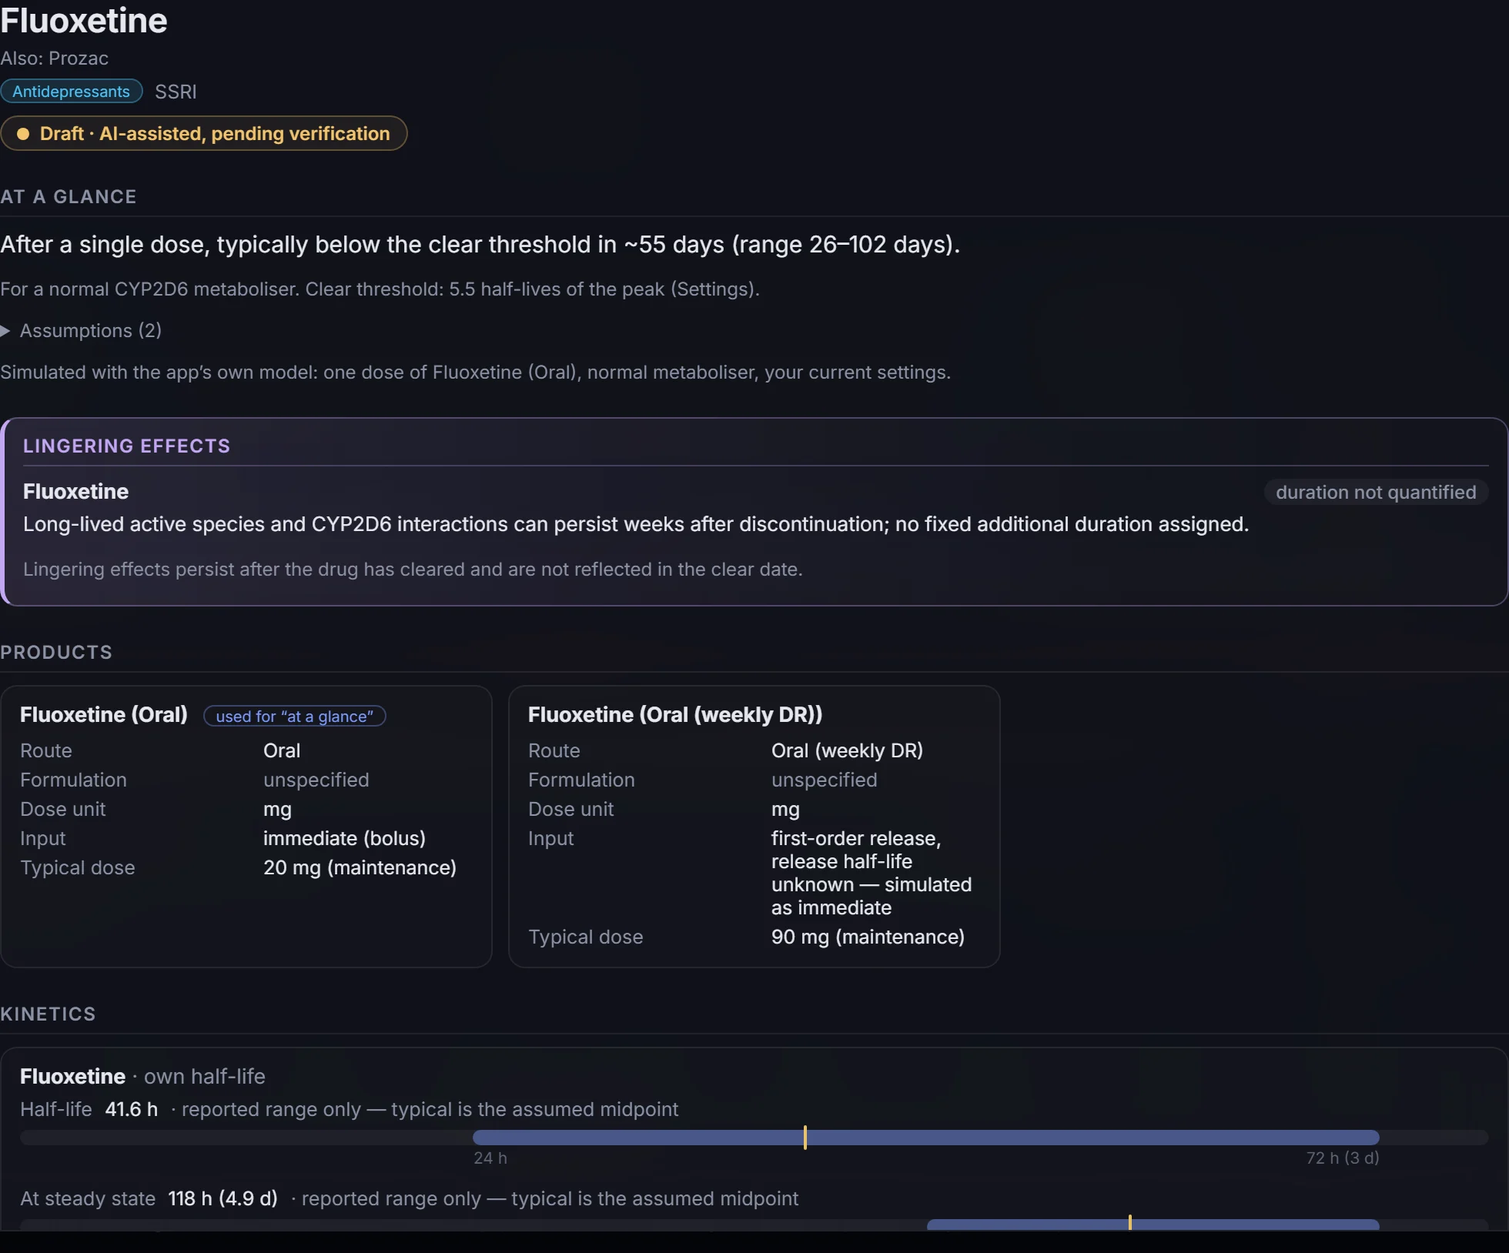
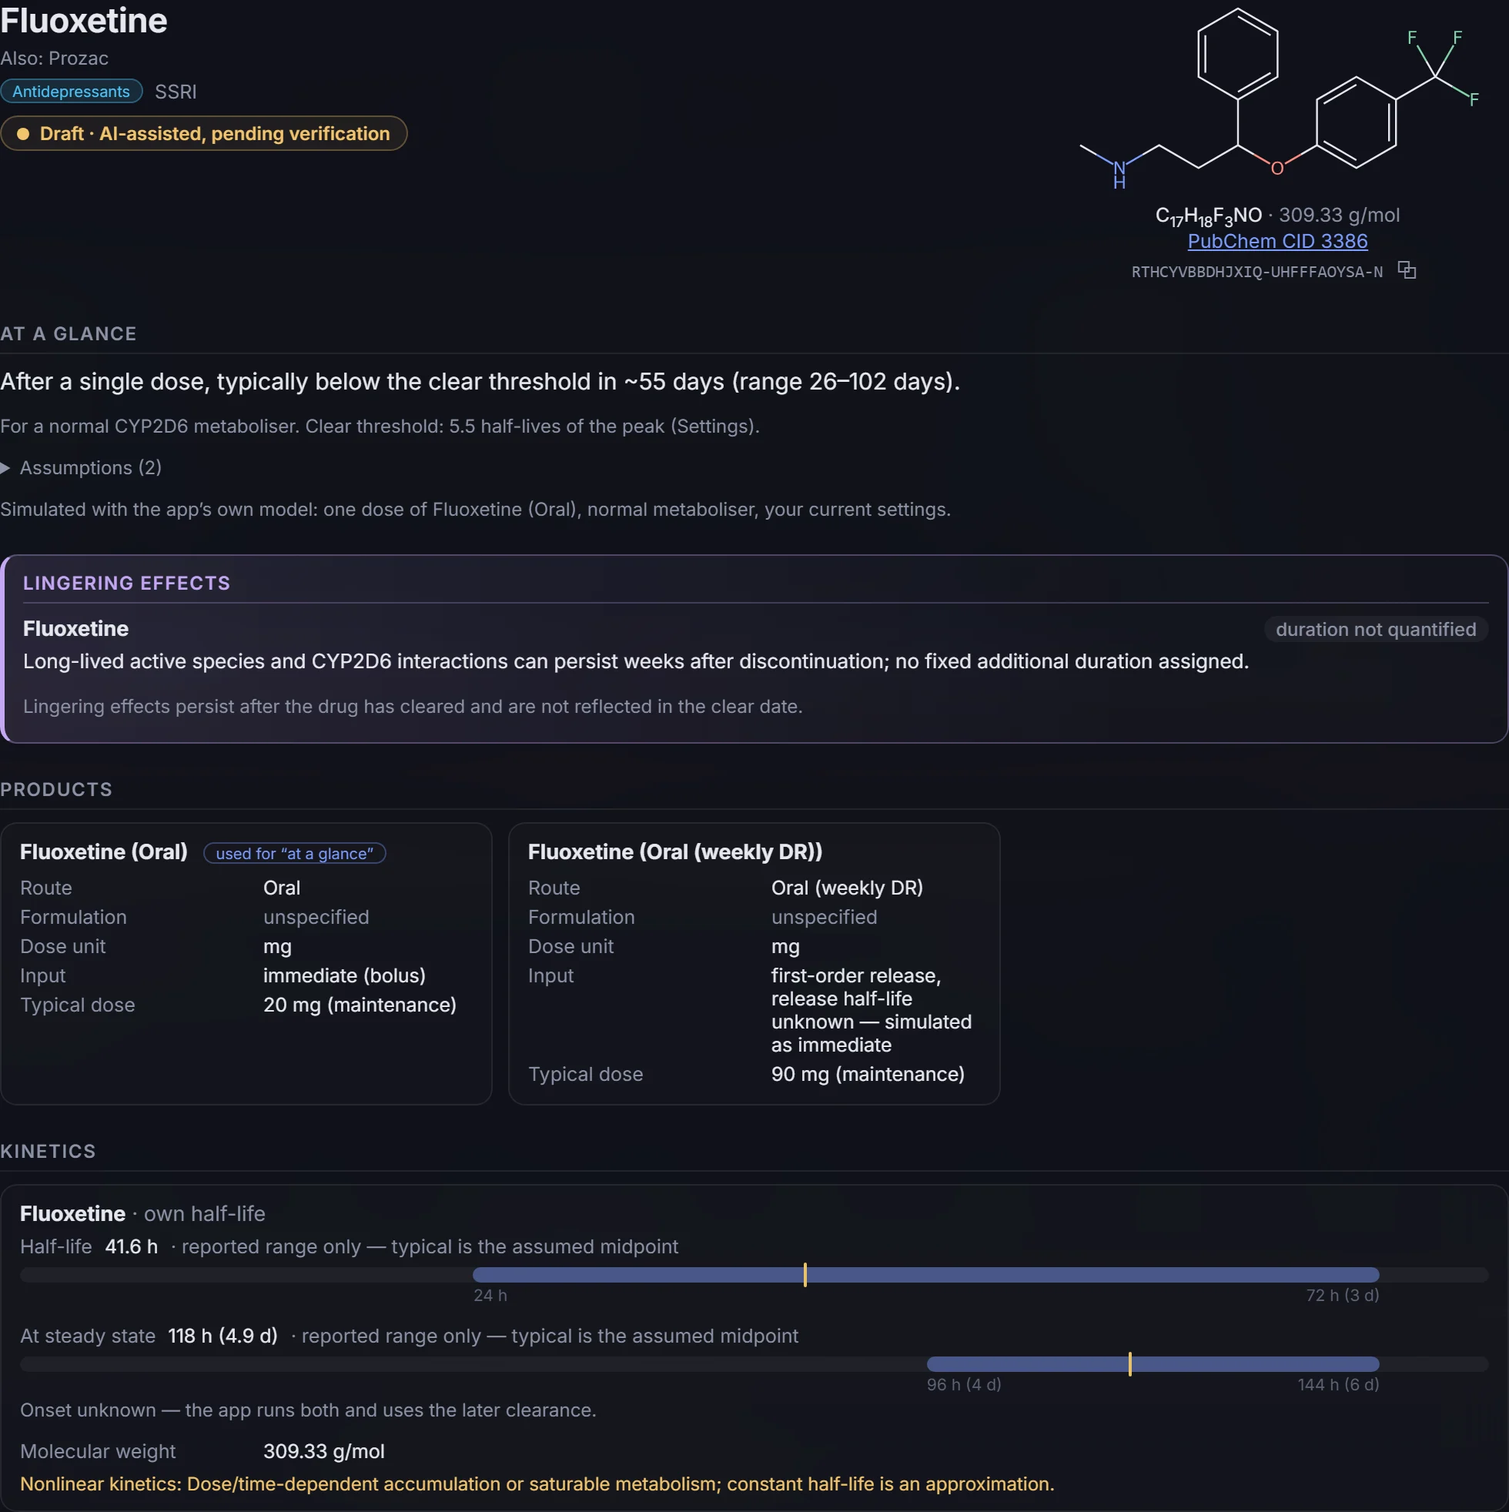
Structures step 6: help, README, screenshots, review list

diff --git a/help.html b/help.html
@@ -49,6 +49,7 @@
               <a href="#library">The drug library and its sources</a>
               <ol>
                 <li><a href="#library-view">Browsing the library</a></li>
+                <li><a href="#library-structures">Chemical structures</a></li>
               </ol>
             </li>
             <li><a href="#faq">FAQ</a></li>
@@ -655,6 +656,7 @@
             <li><a href="https://cpicpgx.org/">CPIC</a> and <a href="https://www.clinpgx.org/">ClinPGx</a> for pharmacogenomics.</li>
             <li>The <a href="https://www.guidetopharmacology.org/">IUPHAR/BPS Guide to Pharmacology</a> and the <a href="https://pdsp.unc.edu/databases/kidb.php">PDSP K<sub>i</sub> Database</a> for receptor targets.</li>
             <li>The primary pharmacokinetic literature via <a href="https://pubmed.ncbi.nlm.nih.gov/">PubMed</a>.</li>
+            <li><a href="https://pubchem.ncbi.nlm.nih.gov/">PubChem</a> (NCBI) for chemical identifiers, formulas, molecular weights and structures.</li>
           </ul>
           <h3>Review and verification</h3>
           <p>Each entry is reviewed section by section (half-life, metabolites, CYP2D6, QT, receptors and so on). A section can be confirmed, confirmed as unknown when the data genuinely isn't published, or marked not applicable. An entry is verified only when every section has been reviewed. Where the data is genuinely unpublished, as it is for many metabolites, the tool says so instead of guessing: the entry shows <span class="badge badge-warn">verified — incomplete data</span> and its clear dates are lower bounds.</p>
@@ -683,18 +685,28 @@
               <li>Live counts from the library.</li>
             </ol>
           </figure>
-          <p>A drug's entry shows, in order: its status; <strong>at a glance</strong>, the clear time after a single dose; <strong>lingering effects</strong>, when there are any; its products; the kinetics of the drug and each metabolite; the metabolite tree; safety (CYP2D6, QT, lingering effects, nonlinear kinetics); receptors; and the sources. Unknown values are shown as <em>unknown</em> or <em>unassessed</em>, never left blank.</p>
+          <p>A drug's entry shows, in order: its name, status and chemical structure; <strong>at a glance</strong>, the clear time after a single dose; <strong>lingering effects</strong>, when there are any; its products; the kinetics of the drug and each metabolite; the metabolite tree; safety (CYP2D6, QT, lingering effects, nonlinear kinetics); receptors; and the sources. Unknown values are shown as <em>unknown</em> or <em>unassessed</em>, never left blank.</p>
           <figure class="shot" data-img="library-entry.webp">
-            <div class="shot-frame"><img src="help/img/library-entry.webp" alt="The top of the fluoxetine entry: its name and aliases, the Draft status, an at-a-glance sentence giving the typical clear time after a single dose with its range, a violet Lingering effects panel with fluoxetine's note and the caveat that lingering effects are not part of the clear date, product cards for the oral and weekly delayed-release products, and the fluoxetine half-life shown as a range bar." /></div>
+            <div class="shot-frame"><img src="help/img/library-entry.webp" alt="The top of the fluoxetine entry: its name and aliases, the Draft status, its chemical structure with formula, molecular weight, PubChem link and InChIKey, an at-a-glance sentence giving the typical clear time after a single dose with its range, a violet Lingering effects panel with fluoxetine's note and the caveat that lingering effects are not part of the clear date, product cards for the oral and weekly delayed-release products, and the fluoxetine half-life shown as a range bar." /></div>
             <figcaption>The top of a drug's entry.</figcaption>
             <ol class="callout-list">
               <li>Status: Verified (with its date), Verified — incomplete data, Draft, or No data yet.</li>
+              <li>Chemical structure, with the formula, molecular weight, a link to the PubChem record and the InChIKey (the copy button copies it). See <a href="#library-structures">Chemical structures</a>.</li>
               <li>At a glance: the same simulation as the chart, for one dose of the main product in a normal CYP2D6 metaboliser, using your current clear threshold. Incomplete drugs say “not before” and name the compound without kinetics.</li>
               <li>Lingering effects: effects that outlast the drug itself, such as the weeks needed to make new enzyme after an irreversible MAOI, protracted benzodiazepine withdrawal, or platelet recovery after clopidogrel. Each compound with a note is listed (a metabolite says which compound it is formed from), with its duration in days or “duration not quantified”. The panel appears only when the drug or one of its metabolites has such a note. These effects persist after the drug has cleared and are <em>not</em> part of the clear date; the chart's <a href="#lingering">lingering-effects band</a> shows them only where a duration is recorded.</li>
               <li>Each product: route, formulation, input model and typical dose. “Not set” or “not applied” means the library has no value.</li>
               <li>Half-life range: the band runs from the fastest to the slowest value, the gold tick is the typical value, and the label says how the range was derived. A striped band is an assumed spread around a single published value.</li>
             </ol>
           </figure>
+          <h3 id="library-structures">Chemical structures</h3>
+          <p>Each drug and metabolite is matched to its <a href="https://pubchem.ncbi.nlm.nih.gov/">PubChem</a> record, and its 2D structure is drawn from PubChem's SMILES with <a href="https://www.rdkit.org/">RDKit</a> when the site is built. The app itself never contacts PubChem. The match has a confidence, and a structure is drawn only when the match is good:</p>
+          <ul>
+            <li><strong>Confirmed</strong>: the name is an exact PubChem synonym of a single record, the molecular weight agrees, and any stereochemistry the name states matches.</li>
+            <li><strong>Probable match — pending review</strong>: drawn, but not yet checked by a reviewer. This covers drugs that have a stereoisomer sibling in the library (citalopram and escitalopram, ketamine and esketamine), where the record could be the wrong isomer, and loosely named metabolites such as “hydroxy-” or “desmethyl-” forms.</li>
+            <li><strong>Structure pending confirmation</strong>: not drawn. The name matched more than one record, only an abbreviation matched (abbreviations collide: MDEA also names an industrial solvent), or the stereochemistry or molecular weight didn't agree. The candidate records are listed with links.</li>
+            <li><strong>No single structure</strong>: mixtures such as kavalactones, peptides such as semaglutide, pooled conjugates, and lithium.</li>
+          </ul>
+          <p>Structures are for identification only. They aren't used in any calculation, but where a molecular weight was missing it was filled from PubChem, which lets the chart show more metabolite amounts in the metabolite's own mass.</p>
           <figure class="shot" data-img="library-tree.webp">
             <div class="shot-frame"><img src="help/img/library-tree.webp" alt="The metabolite tree for codeine: codeine on the left, outlined in gold, linked to its metabolites, each box showing whether it is active and its half-life, with the fraction formed on each link." /></div>
             <figcaption>The metabolite tree.</figcaption>
@@ -775,7 +787,7 @@
             <li><strong>For developers</strong>: see the <a href="https://github.com/IboTool/cleardate#readme">repository README</a>.</li>
           </ul>
           <h3>Acknowledgements</h3>
-          <p>The data sources listed under <a href="#library">The drug library and its sources</a>, and these open-source libraries:</p>
+          <p>The data sources listed under <a href="#library">The drug library and its sources</a>, including <a href="https://pubchem.ncbi.nlm.nih.gov/">PubChem</a> (National Center for Biotechnology Information, U.S. National Library of Medicine) for chemical identifiers and SMILES, and these open-source libraries:</p>
           <div class="table-wrap">
             <table class="data-table">
               <thead><tr><th scope="col">Library</th><th scope="col">Used for</th><th scope="col">Licence</th></tr></thead>
@@ -783,6 +795,7 @@
                 <tr><td><a href="https://echarts.apache.org/">Apache ECharts</a> (with ZRender)</td><td>The chart</td><td>Apache-2.0 (ZRender: BSD-3-Clause)</td></tr>
                 <tr><td><a href="https://www.fusejs.io/">Fuse.js</a></td><td>Fuzzy drug search</td><td>Apache-2.0</td></tr>
                 <tr><td><a href="https://github.com/parallax/jsPDF">jsPDF</a></td><td>PDF export</td><td>MIT</td></tr>
+                <tr><td><a href="https://www.rdkit.org/">RDKit</a></td><td>Drawing the chemical structures (when the site is built; not shipped to your browser)</td><td>BSD-3-Clause</td></tr>
                 <tr><td><a href="https://rsms.me/inter/">Inter</a>, via <a href="https://fontsource.org/">Fontsource</a></td><td>Typeface</td><td>SIL Open Font License 1.1</td></tr>
               </tbody>
             </table>

diff --git a/tools/screenshots.ts b/tools/screenshots.ts
@@ -380,13 +380,19 @@ async function main() {
     const detail = lib.locator('.lib-detail');
     const libSection = (title: string) => detail.locator('.lib-sec').filter({ has: page.locator('h3', { hasText: new RegExp(`^${title}$`) }) });
     const kinetics = libSection('Kinetics');
+    await page.setViewportSize({ width: 1440, height: 1300 });
+    await settle(page, 200);
+    await detail.locator('.lib-struct img').evaluate((img: HTMLImageElement) => img.decode());
     await shot(page, 'library-entry', union(await box(detail.locator('.lib-entry-head')), await box(kinetics.locator('.lib-card').first())), [
       corner(await box(detail.locator('.lib-entry-head .lib-status'))),
+      corner(await box(detail.locator('.lib-struct'))),
       await textEnd(detail.locator('.lib-glance')),
       corner(await box(detail.locator('.lib-linger'))),
       corner(await box(detail.locator('.lib-cards .lib-card').first())),
       corner(await box(kinetics.locator('.lib-bar').first())),
     ]);
+    await page.setViewportSize({ width: 1440, height: 900 });
+    await settle(page, 200);
 
     await lib.locator('.lib-search').fill('codeine');
     await settle(page, 250);

diff --git a/tools/structures/match.ts b/tools/structures/match.ts
@@ -48,11 +48,11 @@ const MAX_CANDIDATES = 8;
 
 /** Always not-applicable, with the reason shown in the Library. */
 export const NOT_APPLICABLE: Record<string, string> = {
-  kavalactones: 'Mixture of six kavalactones — no single structure.',
-  semaglutide: 'Peptide (GLP-1 analogue) — not drawn as a small-molecule structure.',
-  tirzepatide: 'Peptide (GIP/GLP-1 dual agonist) — not drawn as a small-molecule structure.',
-  apap_glucuronide_sulfate: 'Pooled glucuronide and sulfate conjugates — not one compound.',
-  lithium: 'Lithium ion (Li⁺) — a single atom; no structure to draw.',
+  kavalactones: 'Mixture of six kavalactones.',
+  semaglutide: 'Peptide (GLP-1 analogue).',
+  tirzepatide: 'Peptide (GIP/GLP-1 dual agonist).',
+  apap_glucuronide_sulfate: 'Pooled glucuronide and sulfate conjugates, not one compound.',
+  lithium: 'Lithium ion (Li⁺), a single atom.',
 };
 /** Notes that describe the compound itself as a mixture or extract (not just the study material). */
 const MIXTURE_NOTE_RE = /\b(?:is|are) an? (?!stereoisomer)(?:\w+ )?(?:mixture|extract)\b|not one molecular species/i;

diff --git a/tools/structures/lookup.ts b/tools/structures/lookup.ts
@@ -113,7 +113,7 @@ function report(rows: Row[]): string {
     '',
     '## Molecular weights filled from PubChem',
     '',
-    ...(filled.length ? filled.map((c) => `- \`${c.id}\`: ${c.molecularWeight} g/mol (${c.sourceNotes.molecularWeight.split('.')[0]})`) : ['None.']),
+    ...(filled.length ? filled.map((c) => `- \`${c.id}\`: ${c.molecularWeight} g/mol (${(c.sourceNotes.molecularWeight ?? '').split('.')[0]})`) : ['None.']),
     '',
     '## Molecular weight conflicts (not overwritten)',
     '',

diff --git a/README.md b/README.md
@@ -57,13 +57,16 @@ Double-click **`stop-cleardate.bat`** to stop the app and the editor. It kills w
 | Command | What it does |
 |---|---|
 | `npm run dev` | App at http://localhost:5173. In dev, Settings → *Load demo data* adds the fictional compounds in `tools/demo-drugs.json`. |
-| `npm run build` | Runs the validator (`prebuild`), type-checks and writes the static site to `dist/`. The build fails if `drugs.json` has errors. Demo data is never bundled. |
+| `npm run build` | Runs the validator and `structures:render` (`prebuild`), type-checks and writes the static site to `dist/`. The build fails if `drugs.json` has errors. Demo data is never bundled. |
 | `npm run preview` | Serves `dist/` locally. |
 | `npm test` | Unit tests (PK simulation, model and clear status, migration, search, serialisation, sessions). |
-| `npm run init-data` | Creates a schema 2.2 `public/drugs.json` from `tools/candidates.json` with every value unknown (`null` / `unassessed`). Uses the same product rules as the migrations, so it yields the same product set. Refuses to overwrite an existing file; `--force` overwrites, `--out <path>` writes elsewhere. |
+| `npm run init-data` | Creates a schema 2.3 `public/drugs.json` from `tools/candidates.json` with every value unknown (`null` / `unassessed`). Uses the same product rules as the migrations, so it yields the same product set. Refuses to overwrite an existing file; `--force` overwrites, `--out <path>` writes elsewhere. |
 | `npm run migrate-v2` | One-off migration of a v1 `drugs.json` to schema v2 (see below). Does nothing if the file is already v2. |
 | `npm run migrate-v2.1` | One-off migration of a v2 `drugs.json` to schema 2.1 (see below). `--dry-run` reports without writing. Does nothing if the file is already 2.1. |
 | `npm run migrate-v2.2` | One-off migration of a 2.1 `drugs.json` to schema 2.2 (see below). `--dry-run` reports without writing. Idempotent. |
+| `npm run migrate-v2.3` | One-off migration of a 2.2 `drugs.json` to schema 2.3: adds `"identity": null` (chemical identity, filled by `structures:lookup`) to every compound. `--dry-run` reports without writing. Idempotent. |
+| `npm run structures:lookup` | **Dev only, needs the internet.** Looks up every compound's PubChem identity and fills `identity`, the lock file and `docs/structures_report.md` (see *Chemical structures* below). `--id <compoundId>` does one compound, `--dry-run` writes nothing, `--offline` uses only the local cache, `--append-todo` appends the review list to `user_to_do.md`. |
+| `npm run structures:render` | Draws `public/structures/<id>.svg` (dark and light) from the SMILES in `drugs.json` with RDKit. Offline and deterministic; runs in `prebuild`. |
 | `npm run validate` | Checks `public/drugs.json` (or a path given as an argument) and prints errors, warnings and per-category progress. Exits non-zero on errors. |
 | `npm run editor` | Local data editor at http://127.0.0.1:5174. |
 | `npm run screenshots` | Regenerates the help page screenshots in `public/help/img/` (and the callout positions in `callouts.json`) with Playwright, from the fictional patient and fixed date in `tools/help-scenario.json`. Run it after UI or library changes, then check the callout lists in `help.html`. First time only: `npx playwright install chromium`. |
@@ -240,8 +243,32 @@ What the migration does, in short:
 - marks indole-3-acetic acid `endogenous`, and makes cocaine → cocaethylene and methylphenidate → ethylphenidate conditional on ethanol;
 - reports data-status counts before and after.
 
+## Migrating to schema 2.3
+
+`public/drugs.json` is already on 2.3. For another 2.2 file, run `npm run migrate-v2.3`. It adds `"identity": null` to every compound, keeps the 2.2 file as `backups/<name>.v2.2-backup.json`, and refuses to write if the result doesn't validate. Then run `npm run structures:lookup` and `npm run structures:render`.
+
+## Chemical structures
+
+Each compound's `identity` holds its PubChem CID, isomeric SMILES, InChIKey, formula and a confidence:
+
+- `confirmed`: the name (or a salt-stripped form) is an exact PubChem synonym of a single record, the molecular weight agrees within 0.5, the stated stereochemistry matches, and there is no stereoisomer sibling in the library. Safe to skip in review.
+- `probable`: drawn, but labelled "Probable match — pending review" in the Library. These are stereoisomer siblings (citalopram / escitalopram), known vague-metabolite traps and CIDs set by a reviewer.
+- `unconfirmed`: not drawn. No hit, several hits, an abbreviation no alias corroborates (abbreviations collide in PubChem: MDEA also names N-methyldiethanolamine), stereo or racemate conflicts, or a molecular-weight conflict. The candidates are kept for the reviewer.
+- `not-applicable`: mixtures, peptides, pooled conjugates and lithium. No structure.
+
+**Lookup** (`tools/structures/lookup.ts`) runs only on a developer's machine, never in the build or the app. It queries PubChem PUG REST (salts map to their parent), at most about 4 requests a second, with retries, and caches every response in `tools/structures/.cache/` (gitignored). Results go to `drugs.json` (provenance `checked`, or `gap` when unconfirmed; the source note links the PubChem page), `tools/structures/pubchem-lock.json` (CID, InChIKey and retrieval date per compound) and `docs/structures_report.md`. Where a molecular weight was `null` and the compound isn't verified, it's filled from PubChem. Identities a reviewer has confirmed are never changed.
+
+Run it again after adding compounds or when the report flags something. To fix one compound, set its CID in the editor's *Chemical identity* section (or pick one of the candidates), then:
+
+```
+npm run structures:lookup -- --id <compoundId>
+npm run structures:render
+```
+
+**Rendering** (`tools/structures/render.ts`) uses RDKit's WebAssembly build (`@rdkit/rdkit`, dev dependency) to draw a 2D depiction of every `confirmed` or `probable` identity, in the app's dark and light colours, into `public/structures/<id>.svg` and `<id>.light.svg`. It reads only `drugs.json`, so it's offline and reproducible, writes only files that changed and removes orphans. The SVGs are committed.
+
 ## Implementation notes
 
 - Vite + TypeScript, no framework. ECharts (modular import) for the timeline, Fuse.js for fuzzy search, jsPDF for the PDF (loaded only when exporting). Chart images use ECharts' own renderer.
-- Code map: `src/pk.ts` (simulation, tested in `pk.test.ts`), `src/model.ts` (library index, scenario: clear dates, tracks, warnings), `src/chart.ts` (chart option), `src/search.ts` (ranked search: exact → prefix → fuzzy), `src/validate.ts` (shared by the app, the CLI and the editor), `src/tree.ts` (which compounds of a product are simulated, excluded or missing), `src/review.ts` (section review logic for the editor, tested in `review.test.ts`), `src/state.ts` (sessions, including v1 → v2 migration), `src/ui/` (picker, wizard, form pieces), `src/theme.css` (colour tokens and buttons shared by the app and the help page), `help.html` + `src/help/` (the help page, a second Vite entry), `tools/screenshots.ts` + `tools/help-scenario.json` (help screenshots), `tools/` (data tooling and editor; `tools/migrate-v2.ts` and `tools/product-rules.ts` for the v2 migration, `tools/migrate-v2.1.ts` and `tools/migrate-v21-lib.ts` for 2.1).
+- Code map: `src/pk.ts` (simulation, tested in `pk.test.ts`), `src/model.ts` (library index, scenario: clear dates, tracks, warnings), `src/chart.ts` (chart option), `src/search.ts` (ranked search: exact → prefix → fuzzy), `src/validate.ts` (shared by the app, the CLI and the editor), `src/tree.ts` (which compounds of a product are simulated, excluded or missing), `src/review.ts` (section review logic for the editor, tested in `review.test.ts`), `src/state.ts` (sessions, including v1 → v2 migration), `src/ui/` (picker, wizard, form pieces), `src/theme.css` (colour tokens and buttons shared by the app and the help page), `help.html` + `src/help/` (the help page, a second Vite entry), `tools/screenshots.ts` + `tools/help-scenario.json` (help screenshots), `tools/` (data tooling and editor; `tools/migrate-v2.ts` and `tools/product-rules.ts` for the v2 migration, `tools/migrate-v2.1.ts` and `tools/migrate-v21-lib.ts` for 2.1; `tools/structures/` for PubChem lookup and RDKit rendering), `src/library/` (the Library view, structures and lingering-effects panels).
 - A full scenario computes in tens of milliseconds, so it runs on the main thread (no Web Worker).

diff --git a/docs/structures_report.md b/docs/structures_report.md
@@ -512,8 +512,8 @@ None.
 
 ## Not applicable
 
-- `apap_glucuronide_sulfate` APAP glucuronide/sulfate: Pooled glucuronide and sulfate conjugates — not one compound.
-- `kavalactones` Kavalactones: Mixture of six kavalactones — no single structure.
-- `lithium` Lithium: Lithium ion (Li⁺) — a single atom; no structure to draw.
-- `semaglutide` Semaglutide: Peptide (GLP-1 analogue) — not drawn as a small-molecule structure.
-- `tirzepatide` Tirzepatide: Peptide (GIP/GLP-1 dual agonist) — not drawn as a small-molecule structure.
+- `apap_glucuronide_sulfate` APAP glucuronide/sulfate: Pooled glucuronide and sulfate conjugates, not one compound.
+- `kavalactones` Kavalactones: Mixture of six kavalactones.
+- `lithium` Lithium: Lithium ion (Li⁺), a single atom.
+- `semaglutide` Semaglutide: Peptide (GLP-1 analogue).
+- `tirzepatide` Tirzepatide: Peptide (GIP/GLP-1 dual agonist).
